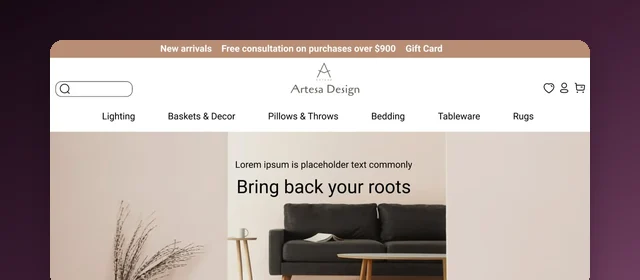
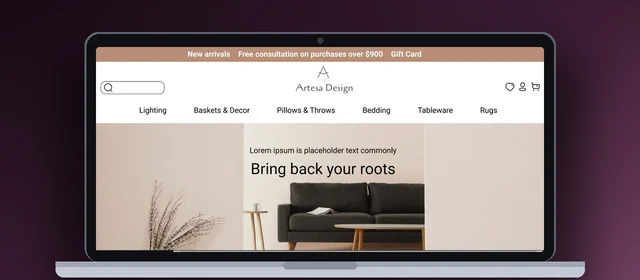
UI bugs

diff --git a/index.html b/index.html
@@ -2121,7 +2121,7 @@ const PHONES=(v,cap)=>({t:'phones',v,cap});
 
 const CASES = [
 {
-  id:'auxo-workshop', thumb:'tileAW.webp', accent:'#00756A', head:"radial-gradient(1000px 480px at 86% -14%, rgba(0,187,165,.30), transparent 62%), radial-gradient(720px 420px at 2% 4%, rgba(38,142,239,.16), transparent 60%), linear-gradient(160deg,#001A3A,#03284C 60%,#06192E)", tile:'Auxo Workshop', tint:'linear-gradient(145deg,#001A44,#00396B 55%,#00BBA5)', claim:"I designed the platform 320+ workshops run their day on",
+  id:'auxo-workshop', thumb:'tileAW.webp?v=2', accent:'#00756A', head:"radial-gradient(1000px 480px at 86% -14%, rgba(0,187,165,.30), transparent 62%), radial-gradient(720px 420px at 2% 4%, rgba(38,142,239,.16), transparent 60%), linear-gradient(160deg,#001A3A,#03284C 60%,#06192E)", tile:'Auxo Workshop', tint:'linear-gradient(145deg,#001A44,#00396B 55%,#00BBA5)', claim:"I designed the platform 320+ workshops run their day on",
   brief:{problem:"Thirty years of Auxo products, and software that recorded a workshop's day instead of reducing it.",role:"Sole UX designer across the platform from concept to delivery, later also Product Owner. Established the Auxo Design System.",outcome:"320+ workshops in New Zealand and Australia have moved off paper onto it. Over 90% take bookings online, and larger brand workshops report revenue up at least 20%."}, no:'01', tag:'Platform design / Platform rebuild',
   title:'Auxo Workshop',
   chip:['chip-live','Live, 320+ businesses'],
@@ -2926,7 +2926,7 @@ const CASES = [
   ]
 },
 {
-  id:'fresh-market', thumb:'arcFresh.webp', archive:true, year:'2020', accent:'#3D7A14', head:"radial-gradient(1000px 480px at 86% -14%, rgba(140,198,63,.28), transparent 62%), radial-gradient(720px 420px at 2% 4%, rgba(31,122,77,.26), transparent 60%), linear-gradient(160deg,#0A2418,#0F3323 60%,#081C13)", tile:'Fresh Market', tint:'linear-gradient(145deg,#0E3524,#1F7A4D 55%,#8CC63F)', claim:"I made buying fruit online feel like standing in the shop",
+  id:'fresh-market', thumb:'arcFresh.webp?v=2', archive:true, year:'2020', accent:'#3D7A14', head:"radial-gradient(1000px 480px at 86% -14%, rgba(140,198,63,.28), transparent 62%), radial-gradient(720px 420px at 2% 4%, rgba(31,122,77,.26), transparent 60%), linear-gradient(160deg,#0A2418,#0F3323 60%,#081C13)", tile:'Fresh Market', tint:'linear-gradient(145deg,#0E3524,#1F7A4D 55%,#8CC63F)', claim:"I made buying fruit online feel like standing in the shop",
   brief:{problem:"People buy almost anything online, then walk to a shop for tomatoes, because being there is the only way to judge the produce.",role:"UX designer in a team of four. Research, journey mapping, ideation and usability testing.",outcome:"Six validated design concepts, including live shopping and layered substitution, plus a card sorted category structure the competitors did not have."}, no:'05', tag:'E-commerce / Research led',
   title:'Fresh Market',
   chip:['chip-concept','Concept project'],
@@ -3039,7 +3039,7 @@ const CASES = [
   ]
 },
 {
-  id:'artesa', thumb:'arcArtesa.webp', archive:true, year:'2021', accent:'#8A4370', head:"radial-gradient(1000px 480px at 86% -14%, rgba(211,162,191,.30), transparent 62%), radial-gradient(720px 420px at 2% 4%, rgba(122,59,102,.30), transparent 60%), linear-gradient(160deg,#1E0E19,#2E1528 60%,#170B13)", tile:'Artesa Design', tint:'linear-gradient(145deg,#2A1424,#7A3B66 55%,#D3A2BF)', claim:"I named a business, then built the shop around it",
+  id:'artesa', thumb:'arcArtesa.webp?v=2', archive:true, year:'2021', accent:'#8A4370', head:"radial-gradient(1000px 480px at 86% -14%, rgba(211,162,191,.30), transparent 62%), radial-gradient(720px 420px at 2% 4%, rgba(122,59,102,.30), transparent 60%), linear-gradient(160deg,#1E0E19,#2E1528 60%,#170B13)", tile:'Artesa Design', tint:'linear-gradient(145deg,#2A1424,#7A3B66 55%,#D3A2BF)', claim:"I named a business, then built the shop around it",
   brief:{problem:"A business with no name, no brand and a website that had to sell handmade products and a design service at the same time.",role:"UX designer in a team of two, from market research and naming through to information architecture and prototype.",outcome:"A brand name validated across two surveys with 121 respondents, a logo, and a card sorted shop structure ready for Shopify."}, no:'06', tag:'Brand and e-commerce',
   title:'Artesa Design',
   chip:['chip-concept','Concept project'],
@@ -3682,31 +3682,6 @@ function pageHome(){
     </div>
   </section>
 
-  <section class="band-tight" id="work">
-    <div class="wrap">
-      <div class="sec-head rv">
-        <h2>Things I've made</h2>
-      </div>
-      <div class="index">
-        ${CASES.filter(c=>!c.archive).map(c=>`
-        <a class="job" href="#/case/${c.id}">
-          <span class="job-thumb" aria-hidden="true">${
-            c.thumb
-              ? `<img src="${c.thumb}" alt="" loading="lazy">`
-              : `<span class="job-tile" style="background:${c.tint}"><i>${c.tile}</i></span>`
-          }</span>
-          <span class="job-text">
-            <span class="job-claim">${c.claim}</span>
-            <span class="job-name">${c.title} &middot; ${c.tag}</span>
-            <span class="job-sum">${c.sum}</span>
-          </span>
-          <span class="job-chip"><span class="chip ${c.chip[0]}">${c.chip[1]}</span></span>
-          <span class="job-arrow" aria-hidden="true">&#8594;</span>
-        </a>`).join('')}
-      </div>
-    </div>
-  </section>
-
   <section class="cine" id="cine" aria-labelledby="cineH">
     <div class="cine-pin">
       <div class="cine-bg" aria-hidden="true"><i class="b1"></i><i class="b2"></i><i class="b3"></i><span class="cine-grid"></span><span class="cine-grain"></span></div>
@@ -3757,6 +3732,32 @@ function pageHome(){
       </div>
     </div>
   </section>
+
+  <section class="band-tight" id="work">
+    <div class="wrap">
+      <div class="sec-head rv">
+        <h2>Projects</h2>
+      </div>
+      <div class="index">
+        ${CASES.filter(c=>!c.archive).map(c=>`
+        <a class="job" href="#/case/${c.id}">
+          <span class="job-thumb" aria-hidden="true">${
+            c.thumb
+              ? `<img src="${c.thumb}" alt="" loading="lazy">`
+              : `<span class="job-tile" style="background:${c.tint}"><i>${c.tile}</i></span>`
+          }</span>
+          <span class="job-text">
+            <span class="job-claim">${c.claim}</span>
+            <span class="job-name">${c.title} &middot; ${c.tag}</span>
+            <span class="job-sum">${c.sum}</span>
+          </span>
+          <span class="job-chip"><span class="chip ${c.chip[0]}">${c.chip[1]}</span></span>
+          <span class="job-arrow" aria-hidden="true">&#8594;</span>
+        </a>`).join('')}
+      </div>
+    </div>
+  </section>
+
 
   <section class="band-tight archive" id="archive">
     <div class="wrap">
